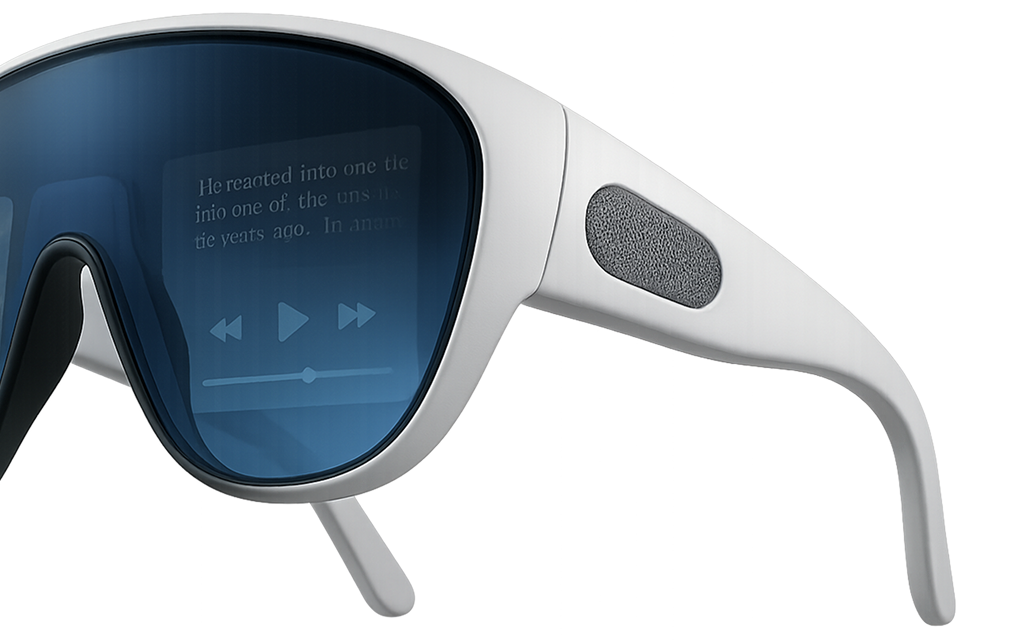
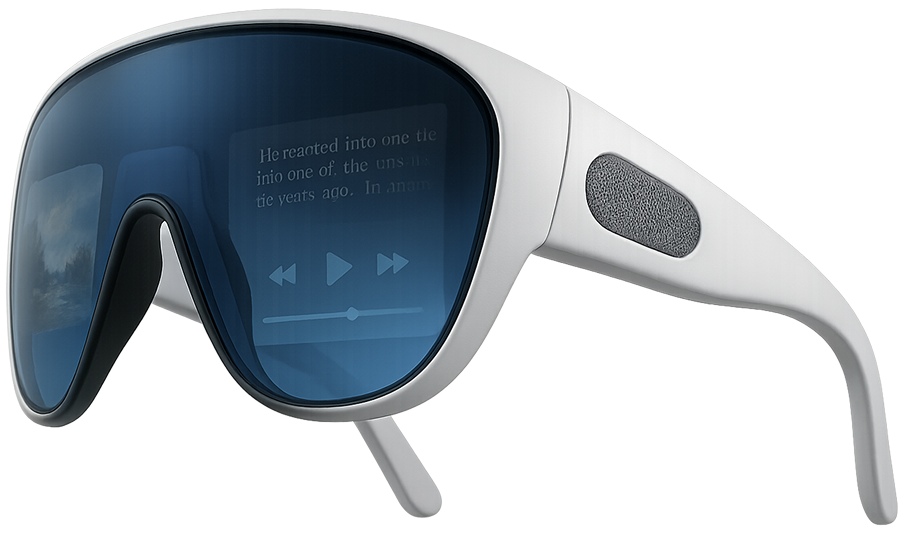
Section interaction musique

diff --git a/src/music.html b/src/music.html
@@ -62,4 +62,22 @@
     </div>
 </section>
 
+<section class="interaction">
+    <div class="wrapper">
+        <div class="media">
+            <img src="assets/images/lunetteInteraction.png" alt="">
+        </div>
+        <div class="content">
+            <h2 class="h2-music">Interaction</h2>
+            <h3>Écouteurs à vibration</h3>
+            <p>La musique prend vie autour de vous grâce à un son binaural immersif transmis par vibration osseuse. Chaque note et chaque voix résonnent avec une clarté saisissante, comme si l’artiste jouait à vos côtés — une expérience libre, pure et sans censure.</p>
+            <ul>
+                <li><span>Tapotez la branche</span> pour activer la musique</li>
+                <li><span>Clignez deux fois</span> pour mettre en pause la lecture</li>
+                <li><span>Glissez le regard</span> de droite à gauche pour changer de chanson</li>
+            </ul>
+        </div>
+    </div>
+</section>
+
 {% include '_partials/_footer.html' %}

diff --git a/src/styles/components/interaction.scss b/src/styles/components/interaction.scss
@@ -1,0 +1,38 @@
+.interaction{
+    position: relative;
+    padding: 180px 0 300px;
+
+    .wrapper{
+        display: grid;
+        grid-template-columns: 1fr 1fr;
+        gap: 40px;
+    }
+
+    .media{
+        overflow: hidden;
+
+        img{
+            width: 100%;
+            display: block;
+        }
+    }
+
+    .content{
+        display: flex;
+        flex-direction: column;
+        gap: 16px;
+        margin-top: 40px;
+
+        ul{
+            margin: 0;
+            padding: 0 20px;
+            display: flex;
+            flex-direction: column;
+            gap: 12px;
+        }
+
+        span{
+            color: var(--color-blue);
+        }
+    }
+}

diff --git a/src/styles/main.scss b/src/styles/main.scss
@@ -39,3 +39,4 @@
 @import "components/footer.scss";
 @import "components/oeuvre.scss";
 @import "components/cards.scss";
+@import "components/interaction.scss";
